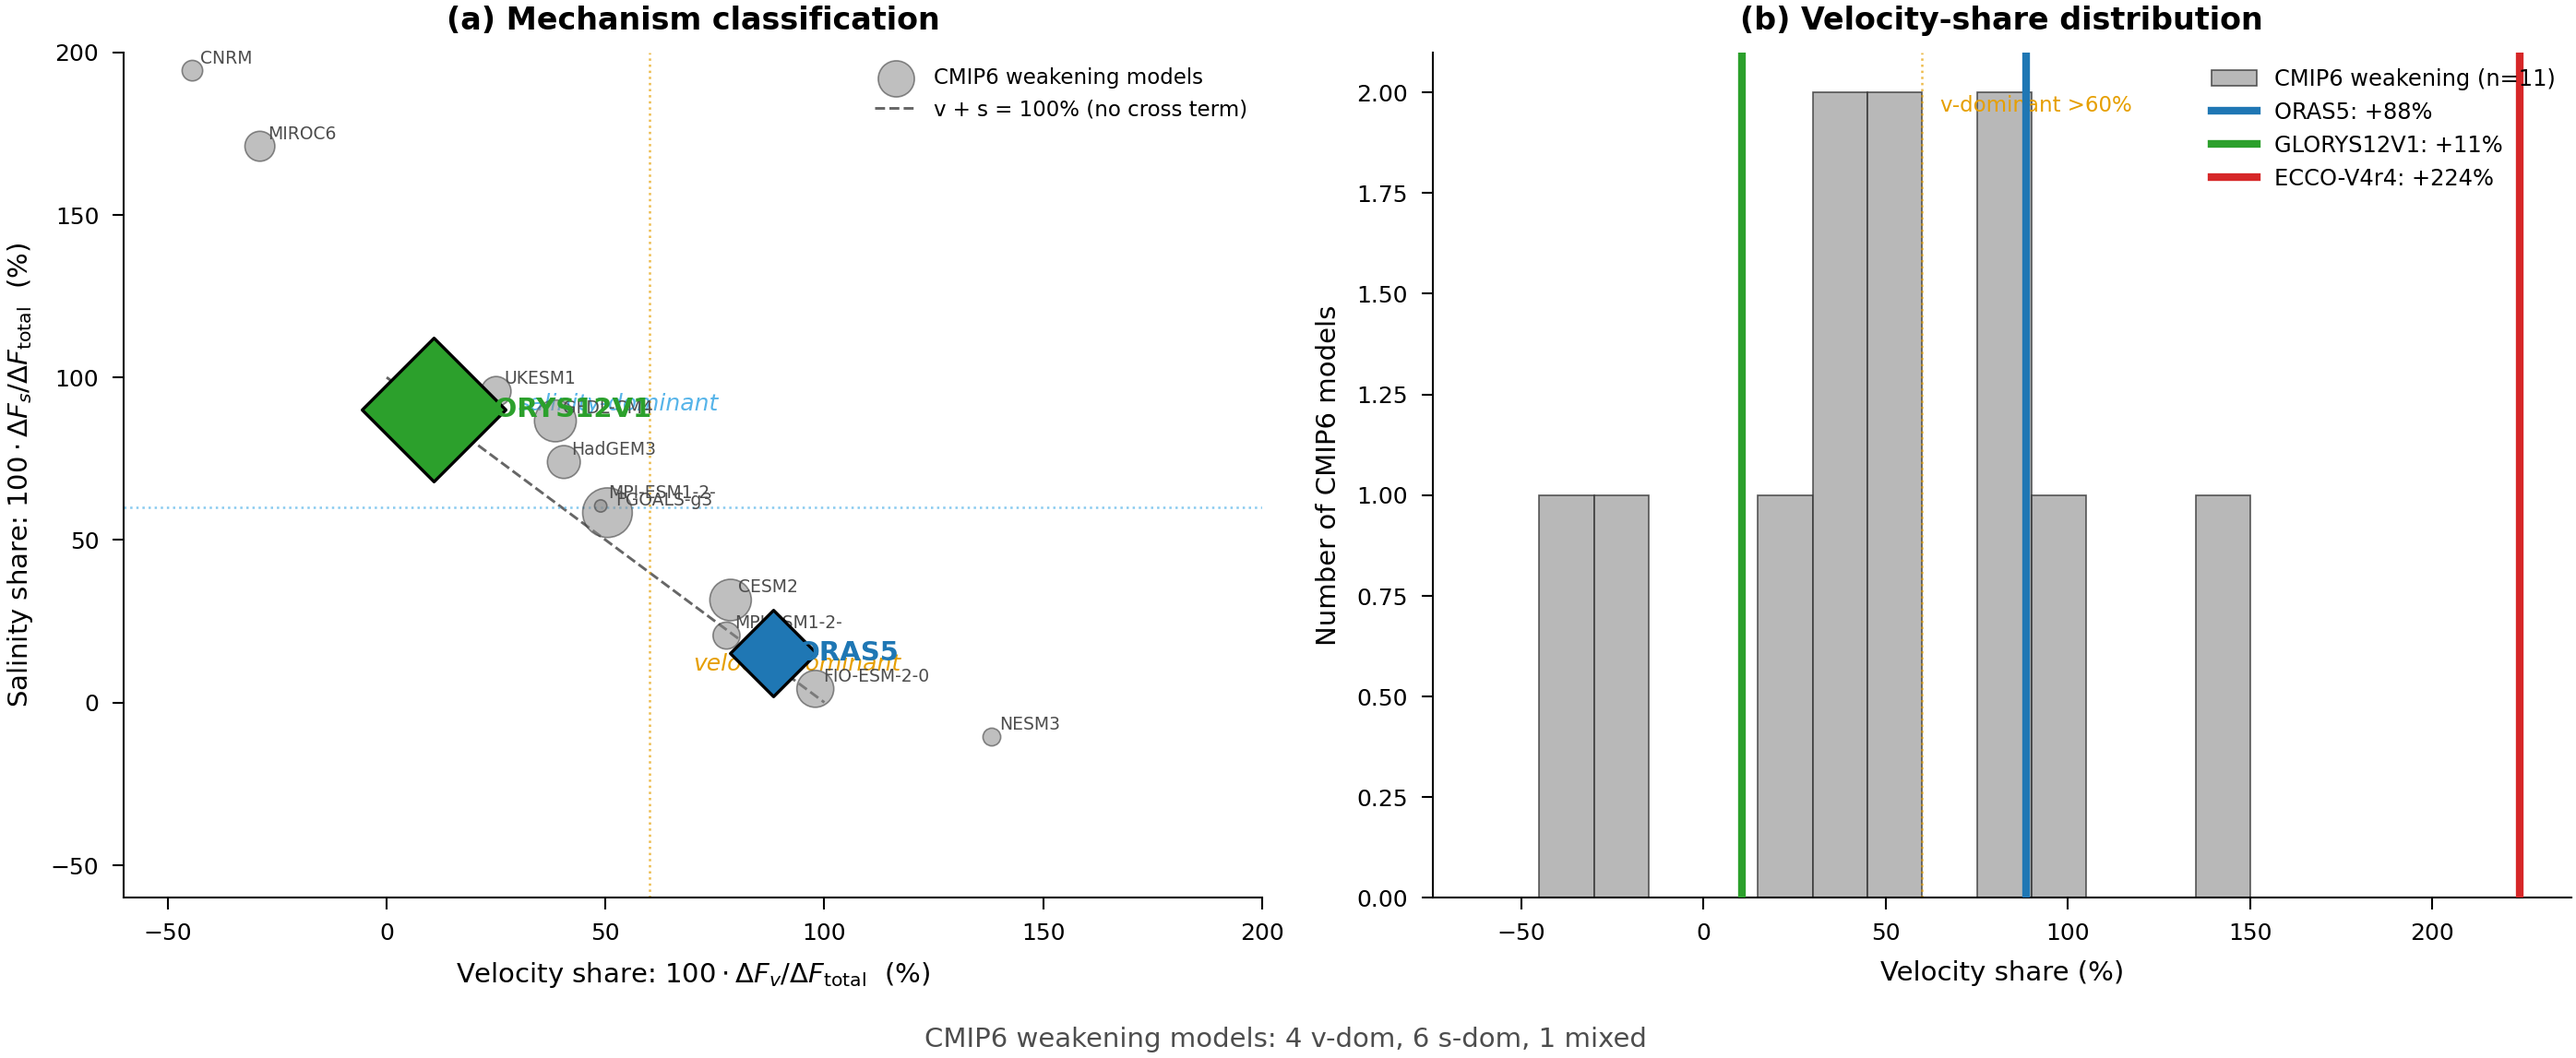
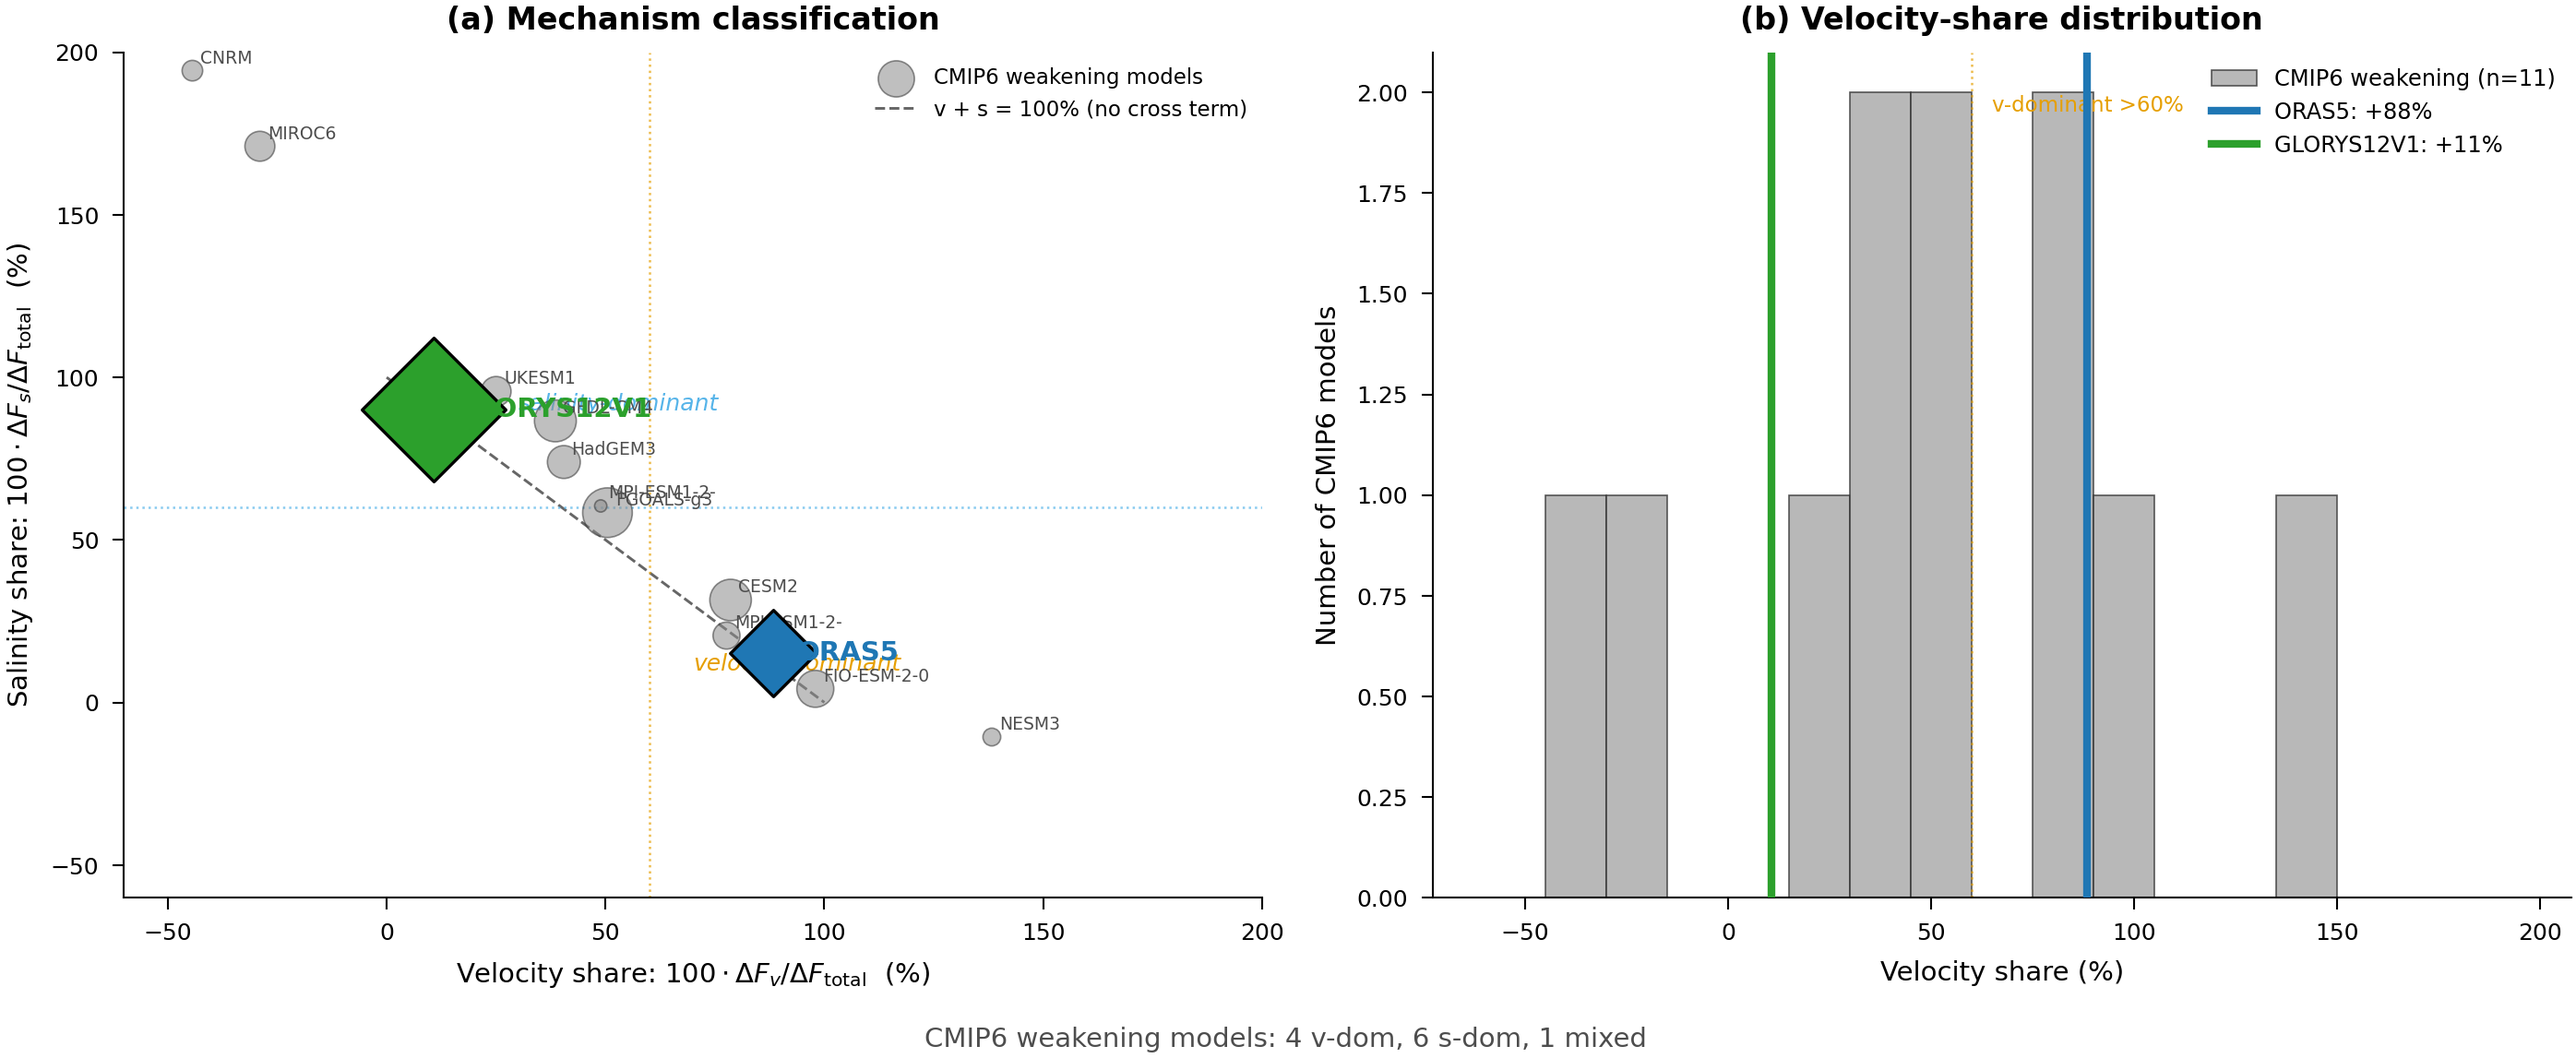
Fig 3: exclude no-trend reanalyses (|ΔF| < 10 mSv) from mechanism panels

Changed region(s): [[0.592, 0.061, 0.9348, 0.8544], [0.8413, 0.061, 0.9971, 0.8239]]

diff --git a/scripts/plot_paper2_fig3_tiebreaker.py b/scripts/plot_paper2_fig3_tiebreaker.py
@@ -42,18 +42,22 @@ REANALYSIS_PRODUCTS = [
 ]
 
 
-def _load_reanalysis_shares(path: Path) -> tuple[float, float, float] | None:
+def _load_reanalysis_shares(path: Path) -> tuple[float, float, float, bool] | None:
+    """Return (|ΔF_mSv|, v_pct, s_pct, has_trend).
+
+    has_trend=False when |ΔF_total| < 10 mSv (ratios unreliable).
+    """
     if not path.exists():
         return None
     ds = xr.open_dataset(path)
     dtot = float(ds.attrs["delta_total_Sv"])
-    if abs(dtot) < 1e-6:
-        ds.close()
-        return None
     dv = float(ds.attrs["delta_v_Sv"])
     dsal = float(ds.attrs["delta_s_Sv"])
     ds.close()
-    return dtot * 1000, 100 * dv / dtot, 100 * dsal / dtot  # mSv, %, %
+    has_trend = abs(dtot) >= 0.010  # 10 mSv threshold
+    v_pct = 100 * dv / dtot if has_trend else np.nan
+    s_pct = 100 * dsal / dtot if has_trend else np.nan
+    return dtot * 1000, v_pct, s_pct, has_trend
 
 
 def main() -> None:
@@ -77,8 +81,8 @@ def main() -> None:
     for label, fname, color in REANALYSIS_PRODUCTS:
         r = _load_reanalysis_shares(args.results_dir / fname)
         if r is not None:
-            dtot_mSv, v_pct, s_pct = r
-            reanalysis_points.append((label, dtot_mSv, v_pct, s_pct, color))
+            dtot_mSv, v_pct, s_pct, has_trend = r
+            reanalysis_points.append((label, dtot_mSv, v_pct, s_pct, has_trend, color))
 
     fig, (ax1, ax2) = plt.subplots(1, 2, figsize=(9.5, 3.8))
 
@@ -99,8 +103,10 @@ def main() -> None:
             fontsize=4.5, color="0.3", zorder=5,
         )
 
-    # Reanalyses as coloured markers
-    for label, dtot, v_pct, s_pct, color in reanalysis_points:
+    # Reanalyses as coloured markers (skip no-trend products from this panel)
+    for label, dtot, v_pct, s_pct, has_trend, color in reanalysis_points:
+        if not has_trend:
+            continue
         ax1.scatter(
             v_pct, s_pct, s=abs(dtot) * 8, c=color, edgecolor="black",
             linewidth=0.8, zorder=8, marker="D",
@@ -130,7 +136,9 @@ def main() -> None:
     bins = np.arange(-60, 201, 15)
     ax2.hist(x_cmip, bins=bins, color="0.65", edgecolor="0.2", linewidth=0.4,
              alpha=0.8, label=f"CMIP6 weakening (n={len(forced)})")
-    for label, _, v_pct, _, color in reanalysis_points:
+    for label, _, v_pct, _, has_trend, color in reanalysis_points:
+        if not has_trend:
+            continue
         ax2.axvline(v_pct, color=color, lw=2, zorder=5,
                     label=f"{label}: {v_pct:+.0f}%")
     ax2.axvline(60, color="#E69F00", lw=0.6, ls=":", alpha=0.7)
